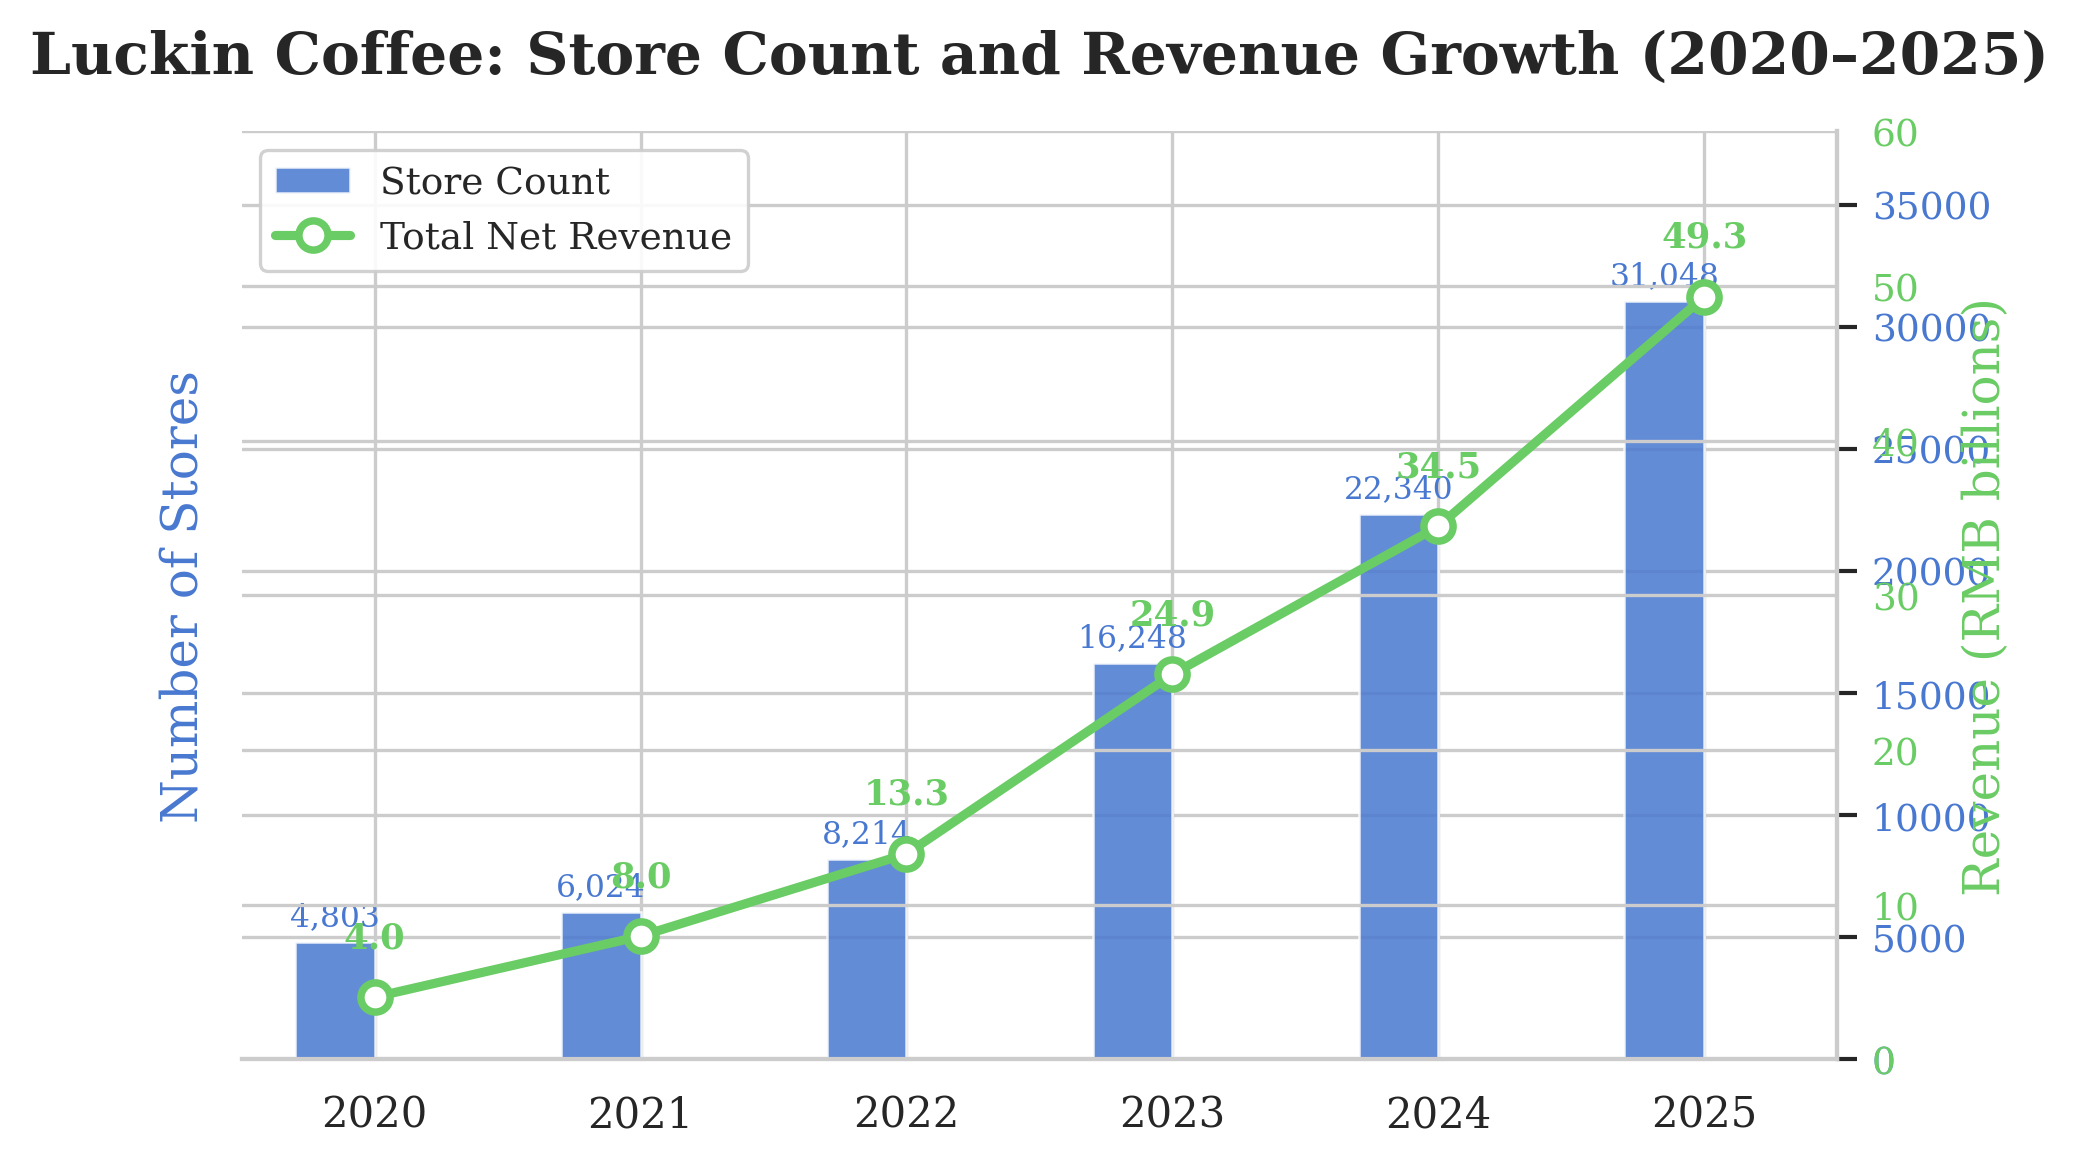
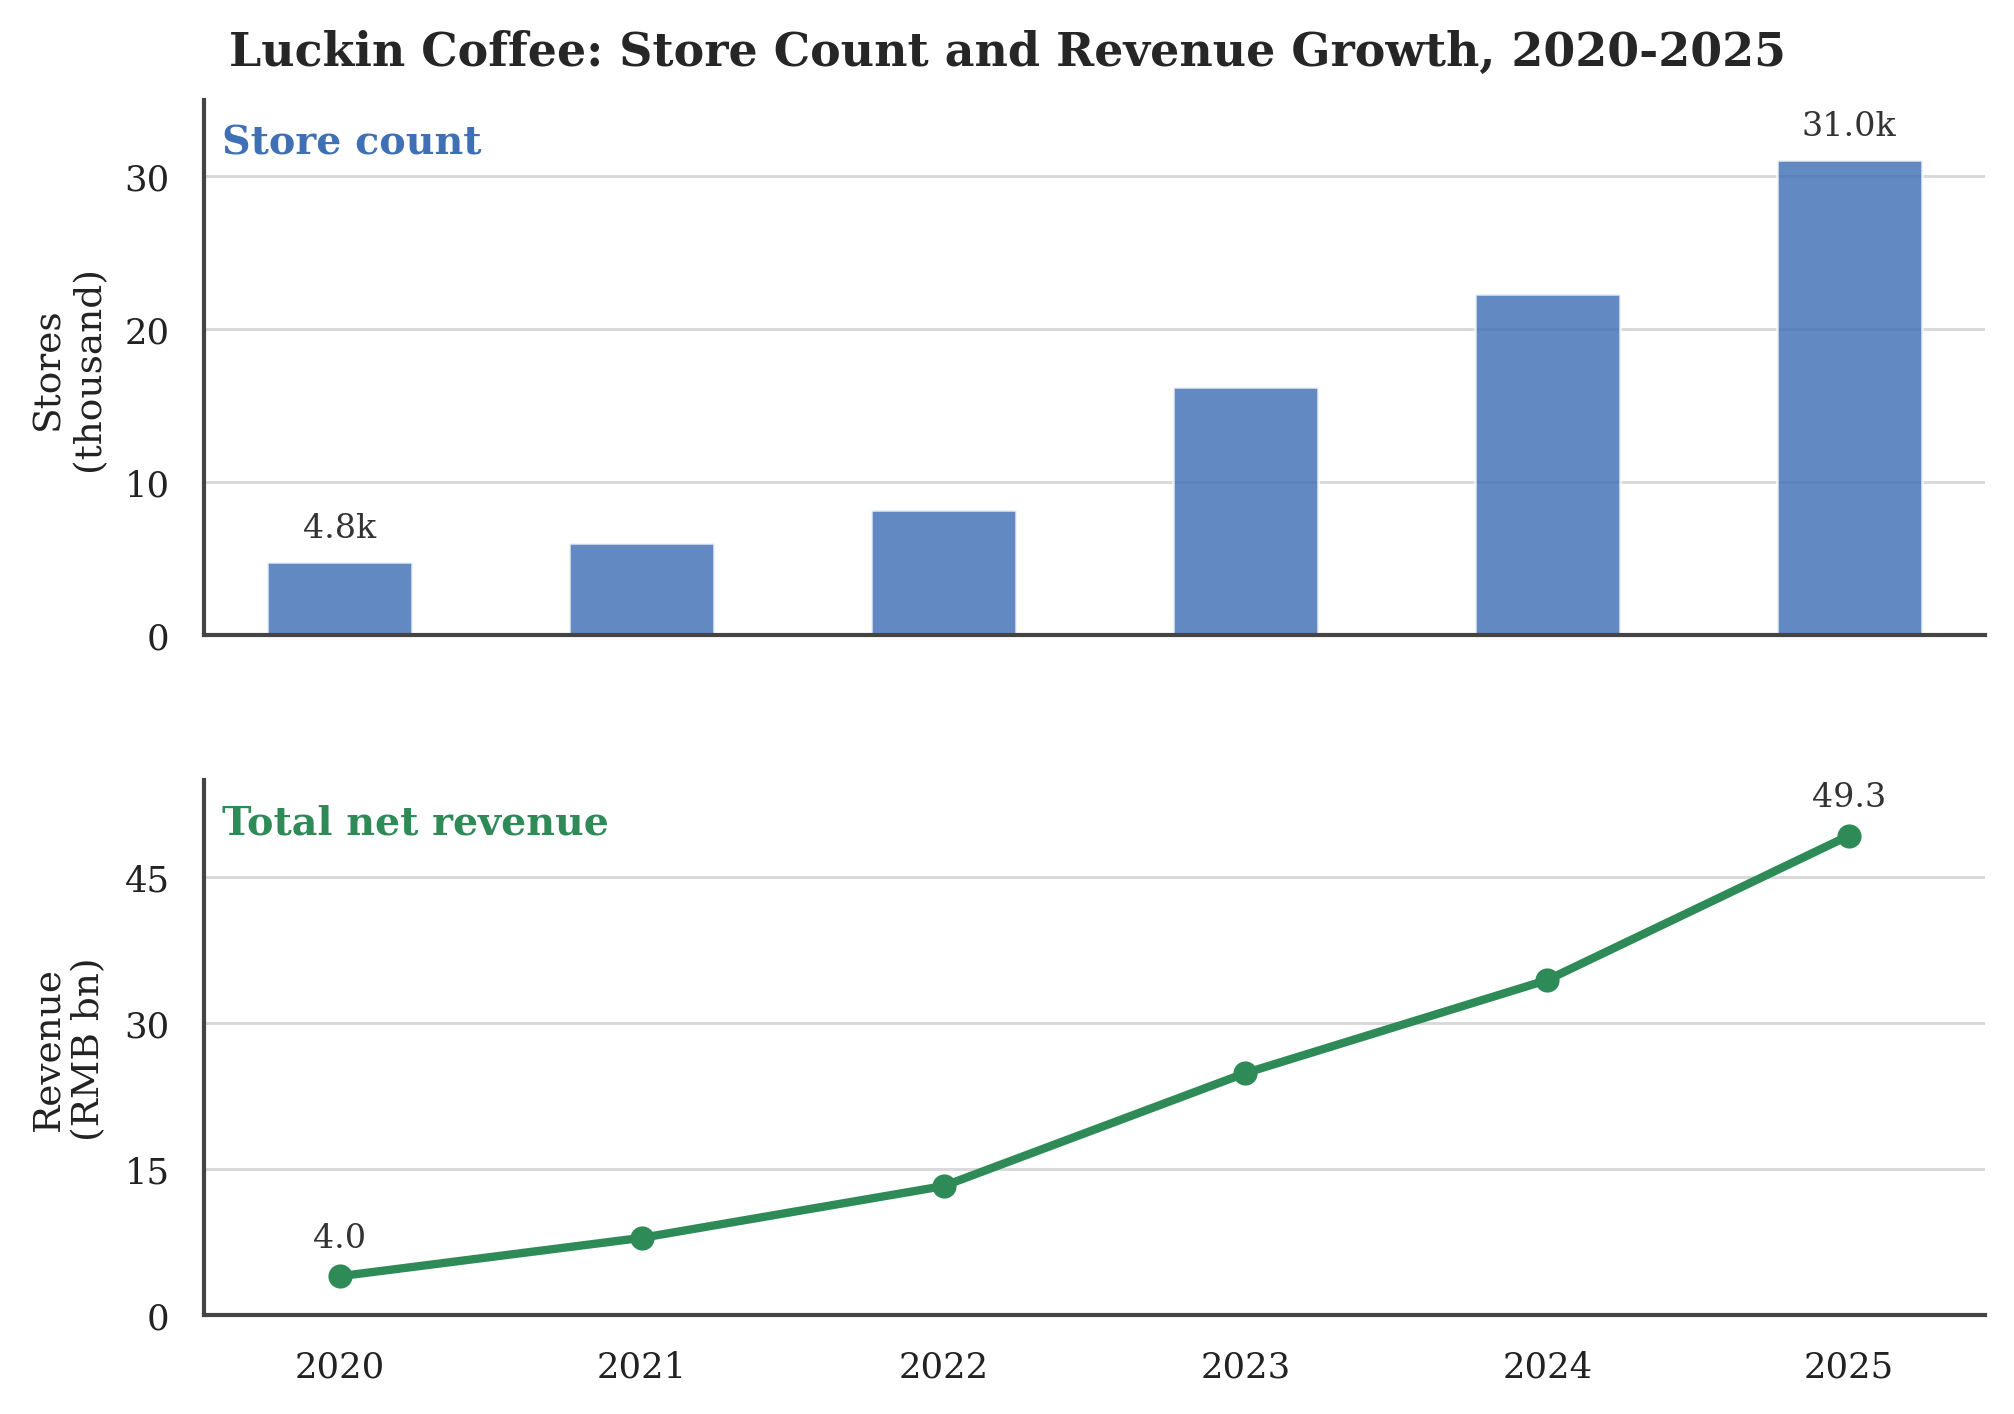
Remove redundant Group Members section; update growth figure and script

diff --git a/Seminar1/fig_growth.py b/Seminar1/fig_growth.py
@@ -2,7 +2,7 @@
 # requires-python = ">=3.11"
 # dependencies = ["matplotlib", "seaborn", "numpy"]
 # ///
-"""Generate growth trend chart for Luckin Coffee (2020–2025)."""
+"""Generate growth trend chart for Luckin Coffee (2020-2025)."""
 
 import matplotlib
 
@@ -12,11 +12,17 @@ import numpy as np
 import seaborn as sns
 
 # ---- Seaborn style ----
-sns.set_theme(style="whitegrid", context="paper", font_scale=1.1)
+sns.set_theme(style="whitegrid", context="paper", font_scale=1.0)
 plt.rcParams.update(
     {
         "font.family": "serif",
         "text.usetex": False,
+        "axes.edgecolor": "#444444",
+        "axes.labelcolor": "#222222",
+        "xtick.color": "#222222",
+        "ytick.color": "#222222",
+        "grid.color": "#d9d9d9",
+        "grid.linewidth": 0.7,
     }
 )
 
@@ -26,96 +32,115 @@ stores = np.array([4803, 6024, 8214, 16248, 22340, 31048])  # total stores
 revenue = np.array([4.03, 7.97, 13.29, 24.90, 34.46, 49.30])  # RMB billions
 
 # ---- Figure ----
-fig, ax1 = plt.subplots(figsize=(6.5, 4.0))
-
-palette = sns.color_palette("muted", 3)
-color_stores = palette[0]
-color_revenue = palette[2]
-
-# Bars: store count
-bars = ax1.bar(
-    years - 0.15,
-    stores,
-    width=0.3,
-    color=color_stores,
-    alpha=0.85,
-    edgecolor="white",
-    linewidth=0.6,
-    label="Store Count",
-    zorder=3,
+fig, (ax_stores, ax_revenue) = plt.subplots(
+    2,
+    1,
+    figsize=(6.6, 4.6),
+    sharex=True,
+    constrained_layout=True,
+    gridspec_kw={"height_ratios": [1, 1], "hspace": 0.18},
 )
-ax1.set_ylabel("Number of Stores", fontsize=12, labelpad=8, color=color_stores)
-ax1.tick_params(axis="y", labelcolor=color_stores, labelsize=9)
-ax1.set_ylim(0, 38000)
 
-# Annotate bars
-for bar, val in zip(bars, stores):
-    ax1.text(
-        bar.get_x() + bar.get_width() / 2,
-        bar.get_height() + 400,
-        f"{val:,}",
-        ha="center",
-        va="bottom",
-        fontsize=7.5,
-        color=color_stores,
-    )
+store_color = "#3f6fb5"
+revenue_color = "#2e8b57"
 
-# Line: revenue
-ax2 = ax1.twinx()
-(line,) = ax2.plot(
+ax_stores.bar(
+    years,
+    stores / 1000,
+    width=0.48,
+    color=store_color,
+    alpha=0.82,
+    edgecolor="#ffffff",
+    linewidth=0.6,
+)
+ax_stores.set_ylabel("Stores\n(thousand)", fontsize=9)
+ax_stores.set_ylim(0, 35)
+ax_stores.set_yticks([0, 10, 20, 30])
+ax_stores.text(
+    0.01,
+    0.9,
+    "Store count",
+    transform=ax_stores.transAxes,
+    fontsize=9.5,
+    fontweight="bold",
+    color=store_color,
+)
+
+ax_revenue.plot(
     years,
     revenue,
-    color=color_revenue,
+    color=revenue_color,
     marker="o",
-    linewidth=2.2,
-    markersize=7,
-    markerfacecolor="white",
-    markeredgewidth=1.8,
-    markeredgecolor=color_revenue,
-    label="Total Net Revenue",
-    zorder=4,
+    linewidth=2.0,
+    markersize=4.8,
 )
-ax2.set_ylabel("Revenue (RMB billions)", fontsize=12, labelpad=10, color=color_revenue)
-ax2.tick_params(axis="y", labelcolor=color_revenue, labelsize=9)
-ax2.set_ylim(0, 60)
-
-# Annotate line points
-for x, y in zip(years, revenue):
-    ax2.annotate(
-        f"{y:.1f}",
-        (x, y),
-        textcoords="offset points",
-        xytext=(0, 12),
-        ha="center",
-        fontsize=8.5,
-        fontweight="semibold",
-        color=color_revenue,
-    )
-
-# Combined legend
-lines1, labels1 = ax1.get_legend_handles_labels()
-lines2, labels2 = ax2.get_legend_handles_labels()
-ax1.legend(
-    lines1 + [line],
-    labels1 + labels2,
-    loc="upper left",
-    frameon=True,
-    fontsize=9,
-    framealpha=0.9,
-)
-
-ax1.set_title(
-    "Luckin Coffee: Store Count and Revenue Growth (2020–2025)",
-    fontsize=14,
+ax_revenue.set_ylabel("Revenue\n(RMB bn)", fontsize=9)
+ax_revenue.set_ylim(0, 55)
+ax_revenue.set_yticks([0, 15, 30, 45])
+ax_revenue.text(
+    0.01,
+    0.9,
+    "Total net revenue",
+    transform=ax_revenue.transAxes,
+    fontsize=9.5,
     fontweight="bold",
-    pad=14,
+    color=revenue_color,
 )
-ax1.set_xticks(years)
-ax1.set_xticklabels([str(y) for y in years], fontsize=10)
-ax1.set_xlim(2019.5, 2025.5)
 
-sns.despine(left=True, bottom=False, right=False)
-fig.tight_layout()
+# Label only the endpoints to keep the figure readable in the report.
+ax_stores.annotate(
+    f"{stores[0] / 1000:.1f}k",
+    (years[0], stores[0] / 1000),
+    textcoords="offset points",
+    xytext=(0, 6),
+    ha="center",
+    fontsize=8,
+    color="#333333",
+)
+ax_stores.annotate(
+    f"{stores[-1] / 1000:.1f}k",
+    (years[-1], stores[-1] / 1000),
+    textcoords="offset points",
+    xytext=(0, 6),
+    ha="center",
+    fontsize=8,
+    color="#333333",
+)
+ax_revenue.annotate(
+    f"{revenue[0]:.1f}",
+    (years[0], revenue[0]),
+    textcoords="offset points",
+    xytext=(0, 7),
+    ha="center",
+    fontsize=8,
+    color="#333333",
+)
+ax_revenue.annotate(
+    f"{revenue[-1]:.1f}",
+    (years[-1], revenue[-1]),
+    textcoords="offset points",
+    xytext=(0, 7),
+    ha="center",
+    fontsize=8,
+    color="#333333",
+)
+
+for ax in (ax_stores, ax_revenue):
+    ax.set_xlim(2019.55, 2025.45)
+    ax.grid(True, axis="y")
+    ax.grid(False, axis="x")
+    ax.tick_params(axis="both", labelsize=8.5)
+
+ax_revenue.set_xticks(years)
+ax_revenue.set_xticklabels([str(y) for y in years], fontsize=8.5)
+
+fig.suptitle(
+    "Luckin Coffee: Store Count and Revenue Growth, 2020-2025",
+    fontsize=11,
+    fontweight="bold",
+)
+
+sns.despine()
 
 fig.savefig("Seminar1/fig_growth.png", dpi=300, bbox_inches="tight")
 print("Saved: Seminar1/fig_growth.png")

diff --git a/Seminar1/Seminar1.tex b/Seminar1/Seminar1.tex
@@ -97,29 +97,9 @@
 
 \vspace{0.3cm}
 
-% =================== II. GROUP MEMBERS ===================
-\section{Group Members}
 
-\noindent
-Group Name: \textbf{Group 4}
 
-\vspace{0.3cm}
-\noindent
-\begin{tabular}{@{}ll@{}}
-\toprule
-\textbf{Name} & \textbf{Identifier} \\
-\midrule
-Zhe-Kai Yang   & Krust \\
-Shi-Hang Chen  & Sean \\
-Wei-Yu Cai     & Nosta \\
-Huan-Wen Chen  & Evan \\
-Yuan-Yong Liao & Foreve \\
-\bottomrule
-\end{tabular}
-
-\vspace{0.6cm}
-
-% =================== III. BUSINESS BACKGROUND ===================
+% =================== II. BUSINESS BACKGROUND ===================
 \section{Background of the Selected Business}
 
 \subsection{Corporate Overview}
@@ -144,7 +124,7 @@ As of the fiscal year ended December~31, 2025, Luckin operated a total of 31,048
   \caption{Luckin Coffee store count and revenue growth (2020--2025).\label{fig:growth}}
 \end{figure}
 
-% =================== IV. BUSINESS ANALYSIS ===================
+% =================== III. BUSINESS ANALYSIS ===================
 \section{Business Analysis}
 
 The following analysis adopts a multi-perspective framework grounded in the management domains pertinent to enterprise architecture. Drawing on strategic management as an organising lens, this section examines the enterprise through five interrelated dimensions: stakeholders, customers, financial architecture, internal business processes, and organisational learning and growth.